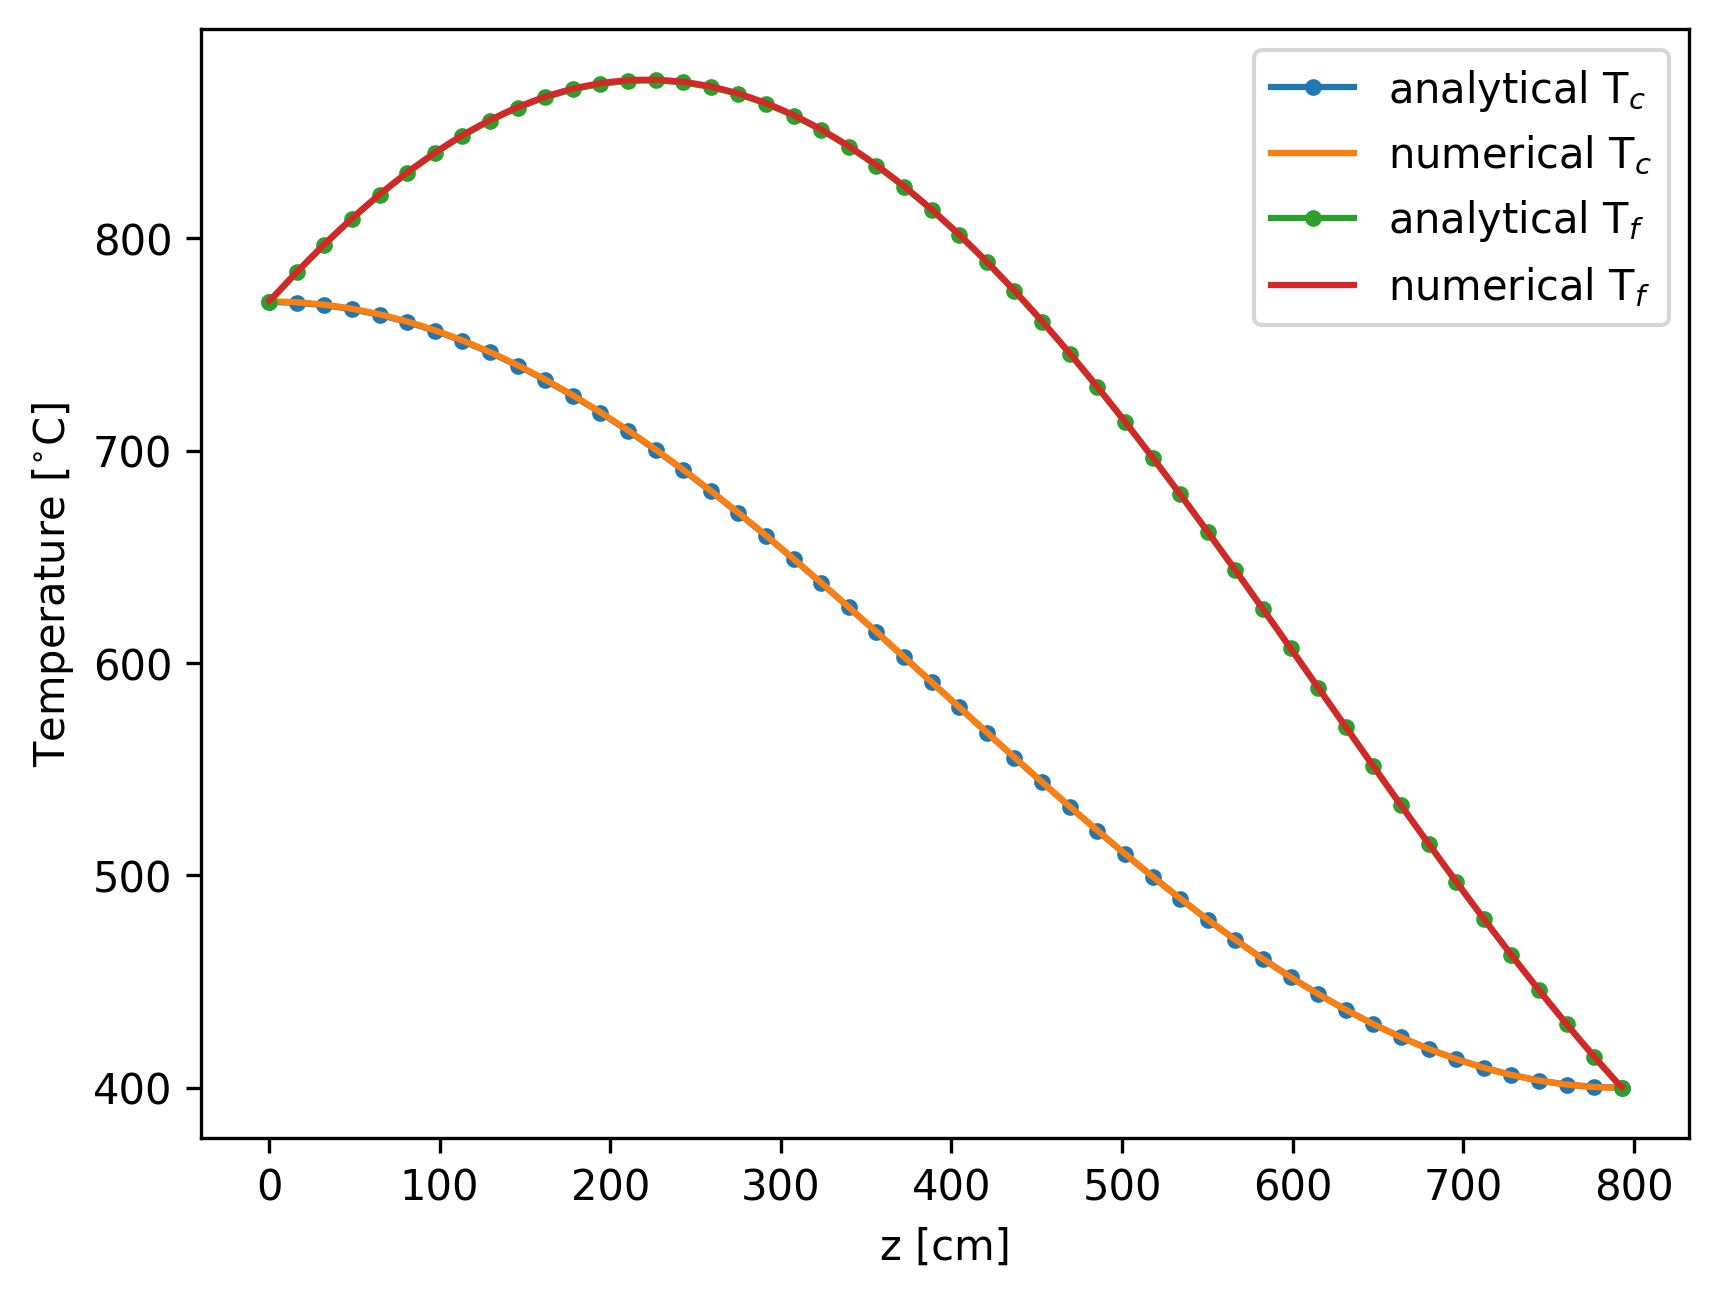
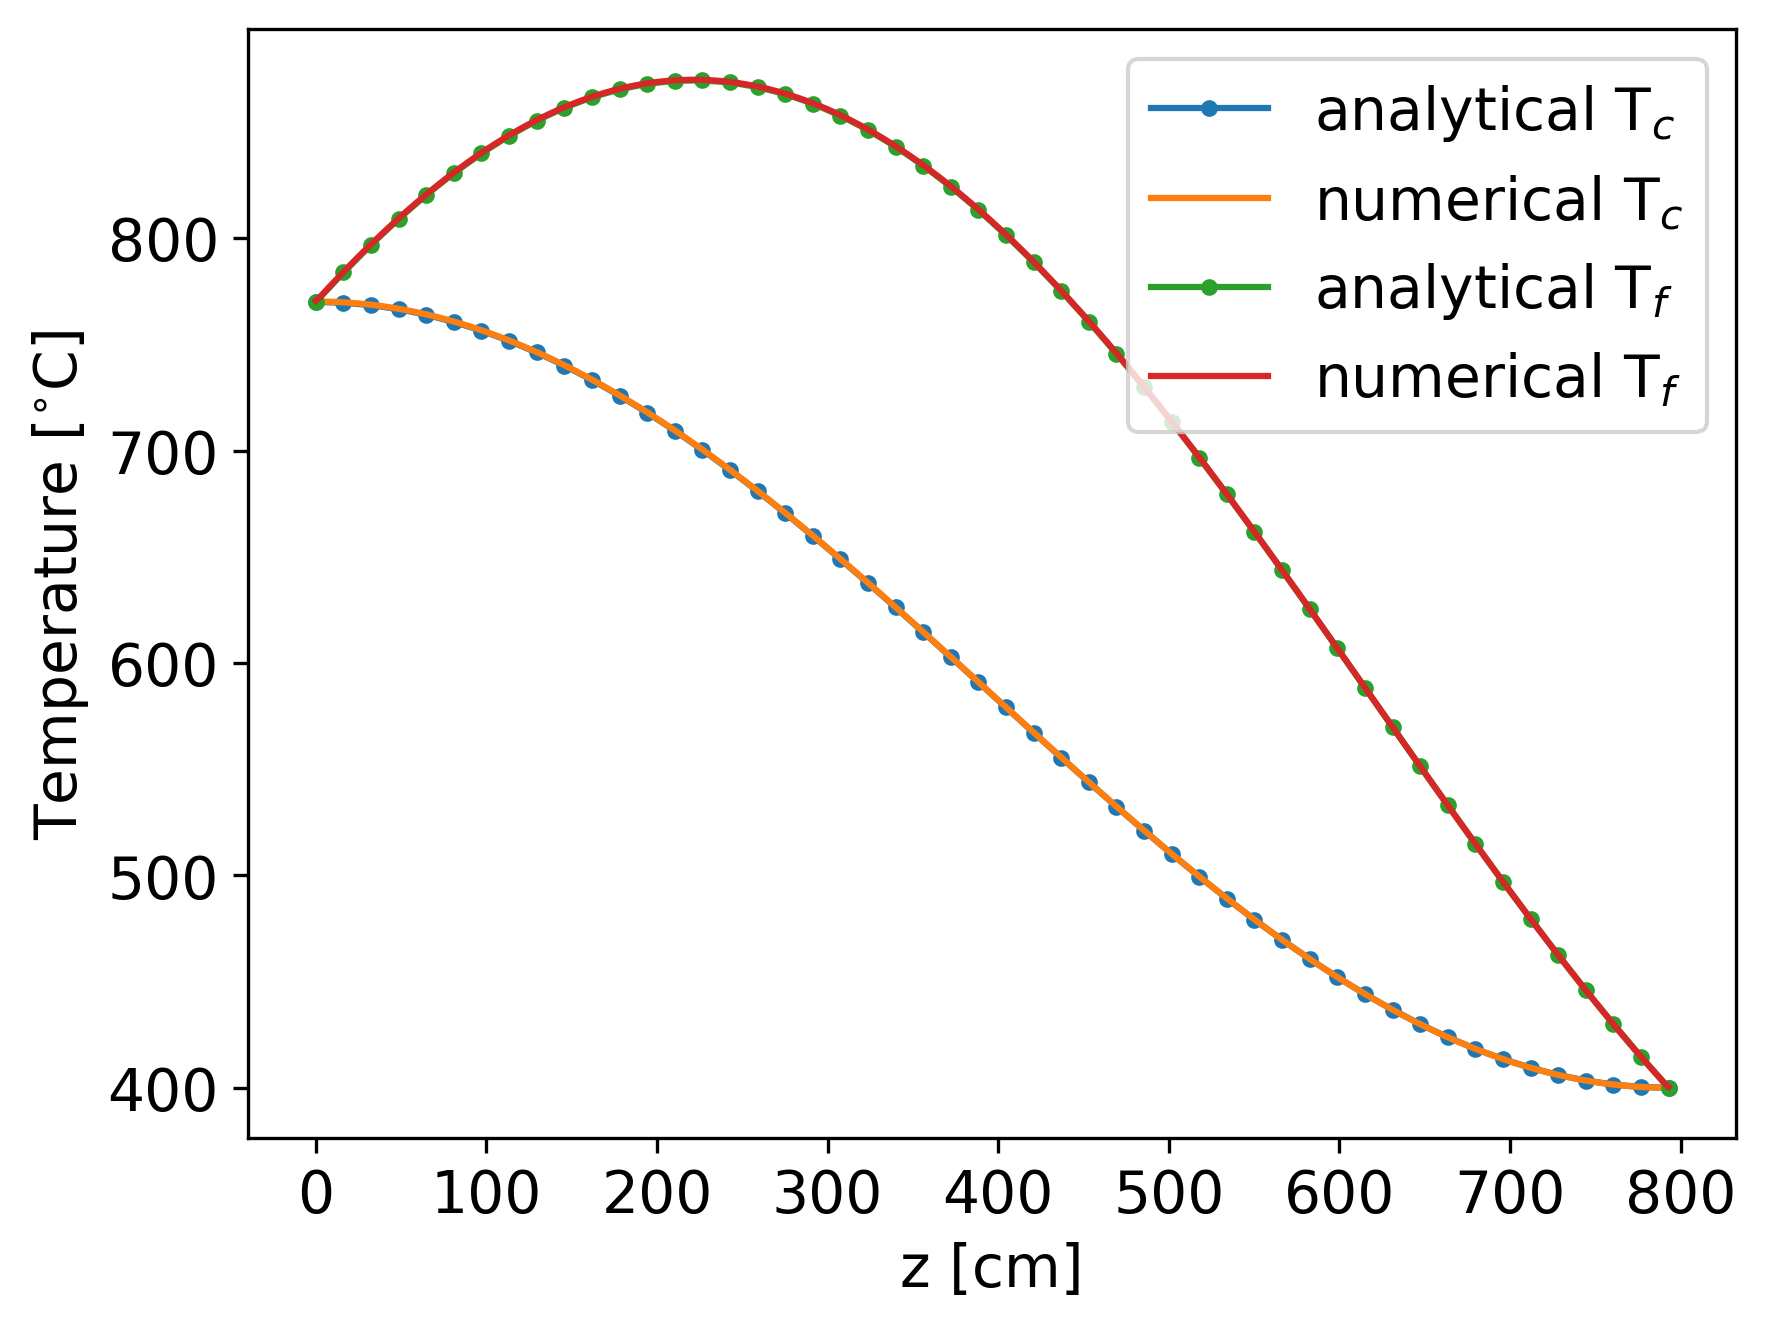
changen fontsize

diff --git a/moltres-thermal-fluids/verification/postprocessing.py b/moltres-thermal-fluids/verification/postprocessing.py
@@ -167,9 +167,11 @@ def plot_verification_axial():
     temp = file['temp'].tolist()
     plt.plot(d, temp, label=r'numerical T$_f$')
 
-    plt.ylabel(r'Temperature [$^{\circ}$C]')
-    plt.xlabel('z [cm]')
-    plt.legend(loc='upper right')
+    plt.xticks(fontsize=14)
+    plt.yticks(fontsize=14)
+    plt.xlabel('z [cm]', fontsize=14)
+    plt.ylabel(r'Temperature [$^{\circ}$C]', fontsize=14)
+    plt.legend(loc='upper right', fontsize=14)
     plt.savefig('2D-preliminar-axial', dpi=300, bbox_inches="tight")
 
 
@@ -236,15 +238,17 @@ def plot_verification_radial():
     temp = file['temp'].tolist()
     plt.plot(d, temp, label='numerical')
 
-    plt.ylabel(r'Temperature [$^{\circ}$C]')
-    plt.xlabel('r [cm]')
-    plt.legend(loc='upper right')
+    plt.xticks(fontsize=14)
+    plt.yticks(fontsize=14)
+    plt.xlabel('r [cm]', fontsize=14)
+    plt.ylabel(r'Temperature [$^{\circ}$C]', fontsize=14)
+    plt.legend(loc='upper right', fontsize=14)
     plt.savefig('2D-preliminar-radial2', dpi=300, bbox_inches="tight")
 
 
 def verification():
     # adds legend to mesh figure
-    add_legends('ver-mesh', 'ver-mesh2')
+    # add_legends('ver-mesh', 'ver-mesh2')
 
     # plots axial numerical and analytical temperatures
     plot_verification_axial()
